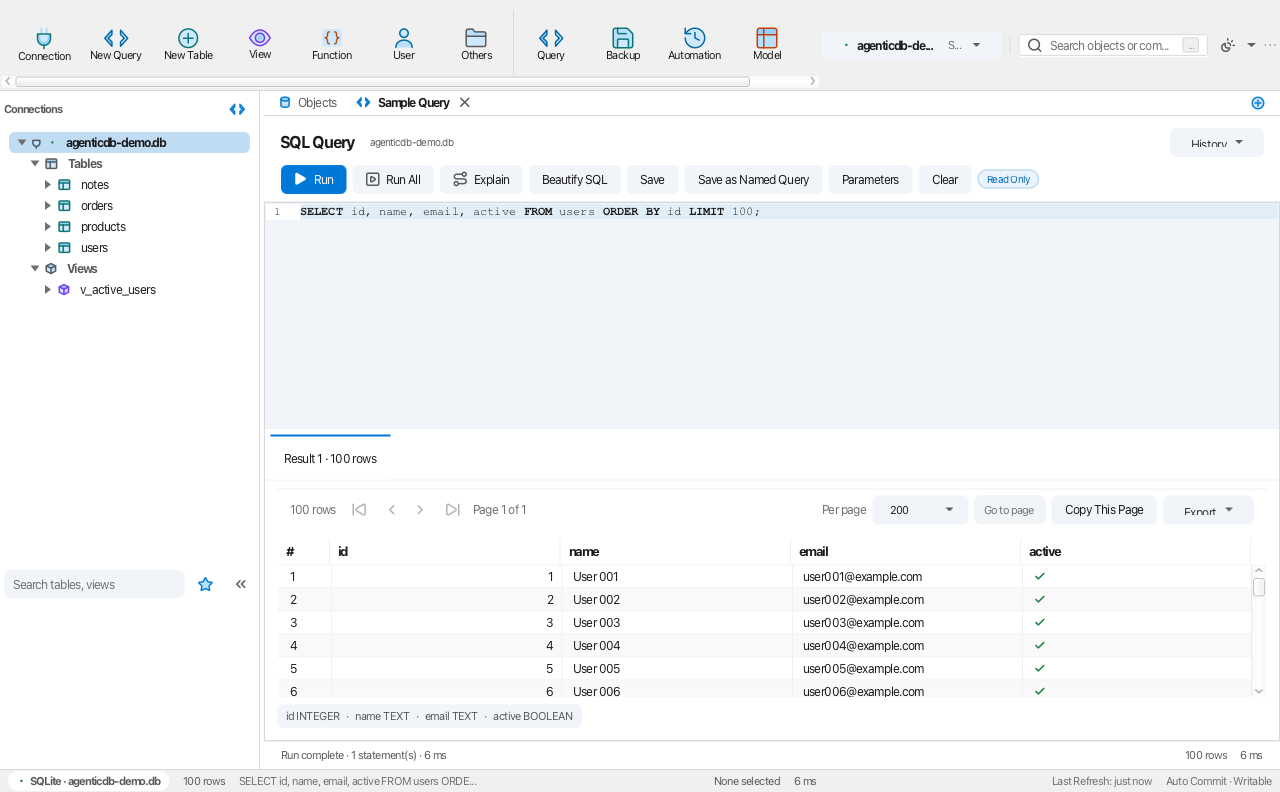
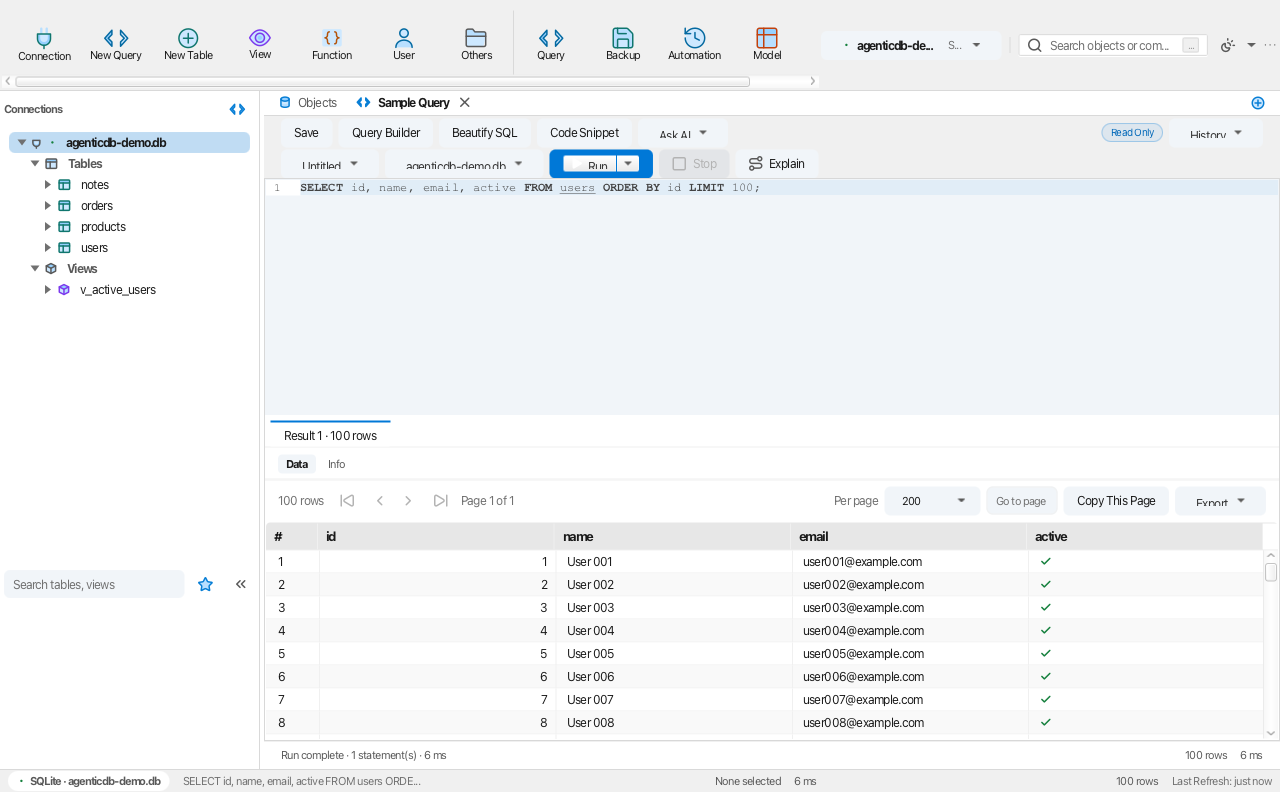
docs: R39 文档与验收帧 —— 基线回量 1199/143、查询页与状态栏规格
- STATUS §1 回量 1199 条 / 143 类 / 0 失败（+8 条 / +2 类：SqlSyntaxColorTest、SavedQueriesPageTest）
- SPEC 重写查询页骨架与 §7.6 状态栏三页型；更正遗留的顶区 114px/Ribbon 64/页签行 26/状态栏 22
  为 R36 实拍值 140/91/25/23，并同步 UI-GUIDE
- FAQ/术语：已保存查询不再是用向导描述的弹窗；事务状态改看数据页工具条
- 重拍 p3-query / p9-saved-queries / p2-transaction；p9 的摆态补刷侧栏 Queries 组

diff --git a/docs/STATUS.md b/docs/STATUS.md
@@ -11,7 +11,7 @@
 |---|---|
 | 命令 | `./scripts/build.sh`（= `./mvnw -B clean verify` + `java tools/TestCount.java`） |
 | 最近一次全量回量 | 2026-10-31 · macOS 15.7 x64 · JDK 25.0.4（IntelliJ JBR） |
-| 结果 | **1191 条 / 141 类 / 0 失败**（另有 53 条环境门控跳过）—— R38 数据网格（N16–N20 N31 + D-1）后回量（`./scripts/build.sh` 全绿；较上一版 **+11 条 / +1 类**：新增 `FilterPanelAuditTest` 3 条（面板开合、显式 Apply 才生效、排序芯片），其余为 N19/N20/D-1 改写的既有类补测 —— 13 具名键项集与 `»` 折叠对账、底栏降级、行内编辑盒与当前列表头、详情浮层压住分页器时的可用宽度） |
+| 结果 | **1199 条 / 143 类 / 0 失败**（另有 53 条环境门控跳过）—— R39 查询编辑器 + 已保存查询 + 状态栏（N21–N25）后回量（`./scripts/build.sh` 全绿；较上一版 **+8 条 / +2 类**：新增 `SqlSyntaxColorTest` 5 条（N22 配色重标定）与 `SavedQueriesPageTest` 4 条（N24 对象页四列 / 设计键 / 删除默认取消 / 刷新），`StatusBarTest` 删掉旧「事务 · 只读」段并补三页型布局 1 条） |
 
 **口径警告（改数字前必读）**：4 个测试类用 `@Nested`，surefire 的 XML 会把外层类写成 `tests="0"`
 （真实用例在内层类条目里）。按 `tests=` 属性统计会少算一百多条 —— 所以计数一律走
@@ -26,7 +26,7 @@
 
 | 能力面 | 状态 | 边界（哪些是真的，哪些不是） |
 |---|---|---|
-| 外壳与布局 | ✅ | 七区（菜单 / 功能区 / 侧栏 / 页签 / 对象工具条 / 内容区 / 状态栏）；侧栏 250px、折叠 48px、可拖 200–360；macOS 用系统菜单栏 |
+| 外壳与布局 | ✅ | 七区（菜单 / 功能区 / 侧栏 / 页签 / 对象工具条 / 内容区 / 状态栏）；侧栏 250px、折叠 48px、可拖 200–360；macOS 用系统菜单栏；状态栏按页型换段（查询 / 数据 / 对象三套），不再摆「自动提交 · 只读」 |
 | 连接与凭据 | ✅ | 六种方言：SQLite / MySQL 5.7–8.x / PostgreSQL（真库验证过）；MariaDB / SQL Server / Oracle（方言 + 单测门禁已落地，**目录查询未在真库验证**，方言源码逐条标注）。连接分组、收藏、复制、URI（含 Oracle EZConnect 与 SQL Server 分号参数串）；口令进系统凭据服务，**不落盘**；`connections.json` 落盘前剔除敏感键；HikariCP 池化（除 SQLite），SQLite 直连 |
 | 连接向导 | ✅ | 6 个类型磁贴 → 7 页属性 → 测试 → 保存。SSL 页的档位与根证书参数**由方言自报**（PG `sslmode` / MySQL `sslMode` / MariaDB `sslMode`+`serverSslCert`，MariaDB 没有 prefer 档）；SQL Server（encrypt + trustServerCertificate 配对）与 Oracle（钱包 / sqlnet.ora）收起档位并写明去哪里填；SSH / HTTP 页如实标注「未实现」，不是空壳 |
 | 对象树 | ✅ | 真实内省（表 / 视图 / 函数·过程；触发器按表归属在结构页，事件本版本不上树）；多连接同树；表节点懒加载展开列，失败可重试 |
@@ -35,10 +35,11 @@
 | 数据页写路径 | ✅ | 行内编辑 + 类型转换 + 按主键定位；NULL / 空串独立操作；批量操作走行多选 + 右键菜单 + 底部行操作条（TSV / INSERT / 克隆 / 置 NULL / 置空串 / 删除）；SQL 预览 → 单事务 → 失败回滚 → 保存后一次反向撤销 |
 | 结构编辑 | ✅ | 加列 / 改列 / 重命名 / 删列 + 两级危险确认；索引、外键、触发器、CHECK 可增删；表注释可读可改（SQLite 无 → 按钮禁用）；改列整表重建时搬运 CHECK |
 | 建表 / 表级生命周期 | ✅ | 建表（弹窗 + 实时 SQL 预览）/ 清空 / 重命名 / 删除，三种方言各走自己的语法。⚠ 建表弹窗里还不能录外键 / 索引 / CHECK；建表后不自动打开该表 |
-| 查询页 | ✅ | RichTextFX 编辑器（高亮 / 行号 / 当前行 / 查找替换）；`⌘R` 当前语句、`⇧⌘R` 全部、`⌘.` 取消；多语句结果页签、服务端分页、执行计划、错误定位、查询历史（50 条，带对象上下文）、代码片段。执行计划按方言能力开放：SQL Server / Oracle 需要两步协议，按钮禁用并说明原因 |
+| 查询页 | ✅ | 工具带双行 62px（保存 / 查询构造器 / 美化 / 代码片段 / 问 AI · 查询名▾ / 库▾ / Run▾ / Stop / Explain）；RichTextFX 编辑器（语法配色、行号、当前行、查找替换）；`⌘R` 当前语句、`⇧⌘R` 全部、`⌘.` 取消；结果区 `Message/Summary/Result N` 三段 + `Data/Info` 切面、服务端分页、执行计划、错误定位、查询历史（50 条，带对象上下文）、代码片段。执行计划按方言能力开放：SQL Server / Oracle 需要两步协议，按钮禁用并说明原因 |
+| 已保存查询 | ✅ | 工作区对象页（名称 / 类型 / 修改时间 / SQL 四列 + `设计` / `新建` / `删除查询`）；侧栏 `Queries` 组双击或 Enter 打开；删除走危险确认（默认按钮是取消）；查询页保存后列表即时刷新 |
 | 导入导出 | ✅ | 流式 CSV / TSV / JSON Lines / SQL / xlsx（POI SXSSF 写 + SAX 读）；字段映射、按目标列类型转换（含中文日期格式）、坏行报告带列名与原文；查询结果三档导出（本页 / 选中 / 全部） |
 | 错误与超时 | ✅ | 错误归类（断连 / 权限 / 不存在 / 超时 / 锁 / 约束 / 语法）；语句超时 30s 并给建议；崩溃日志 `~/.agenticdb/logs/crash-*.log` |
-| 外观 | ✅ | 暗亮双主题 + 跟随系统 + 本地记忆；四档密度；107 个设计令牌唯一真相；图标走语义彩色层（同一套资产换主题自动换色） |
+| 外观 | ✅ | 暗亮双主题 + 跟随系统 + 本地记忆；四档密度；108 个设计令牌唯一真相；图标走语义彩色层（同一套资产换主题自动换色） |
 | 键盘与可访问性 | ✅ | ⌘K 命令面板；六区焦点顺序；页签 / 切面键盘切换；逐页可朗读名称（`AccessibilityAuditTest` 断言） |
 | 界面语言 | ✅ | 英文（默认）· 简体中文；主源码里的硬编码汉字由棘轮压到 8 条（且那 8 条是**输入 token**，不是文案） |
 | 可观测性 | ✅ | `StartupTrace` 分段打点 → `~/.agenticdb/logs/startup.log`；诊断页 |

diff --git a/docs/ROADMAP.md b/docs/ROADMAP.md
@@ -12,13 +12,14 @@
 | 数据库 | SQLite · MySQL 5.7/8.x · PostgreSQL |
 | 形态 | 原生桌面（Java 25 + JavaFX 25），**不内嵌浏览器、不启本地 HTTP 端口** |
 | 平台 | macOS · Windows · Linux（**源码构建**；尚无签名安装包，见 `docs/STATUS.md` §分发） |
-| 数据网格 | 服务端分页、列筛选/条件构造、多列排序、列宽与顺序记忆、行内编辑、区域选择、冻结列 |
+| 数据网格 | 服务端分页、列筛选/条件构造、多列排序、列宽与顺序记忆、行内编辑、区域选择、冻结列；**Filter & Sort 内嵌生成器**（显式 Apply、Sort By 芯片） |
 | 写操作安全 | SQL 预览 → 单事务执行 → 失败回滚 → 保存后反向撤销；危险语句分级 + 两级确认 |
+| 导航 | 连接 → 库 → 分组三级树；MySQL / MariaDB / PostgreSQL / SQL Server 多库可切换（双击库即切），SQLite 单库平铺；页签与状态栏带库名 |
 | 结构编辑 | 加列/改列/重命名/删列、索引、外键、触发器、CHECK、表注释，全部单事务 + 联动刷新 |
-| SQL 编辑器 | 语法高亮、当前语句执行、多语句结果页签、执行计划、错误定位、查询历史、代码片段 |
+| SQL 编辑器 | 语法高亮、当前语句执行、多语句结果页签、执行计划、错误定位、查询历史、代码片段；已保存查询是对象页（4 列 + 设计/新建/删除） |
 | 导入导出 | CSV / TSV / JSON Lines / SQL / xlsx，字段映射、按目标列类型转换、坏行报告 |
 | 凭据 | 存系统凭据库（macOS Keychain / Windows Credential Manager / secret-tool），**不落盘明文** |
-| 主题 | 暗/亮双主题（跟随系统）、四档密度、107 个设计令牌单一真相 |
+| 主题 | 暗/亮双主题（跟随系统）、四档密度、108 个设计令牌单一真相 |
 | 键盘与可访问性 | ⌘K 命令面板、六区焦点顺序、逐页可朗读名称 |
 | 界面语言 | 英文（默认）· 简体中文 |
 
@@ -27,14 +28,13 @@
 | 项 | 状态 |
 |---|---|
 | 彩色图标体系（对象类型 / 状态） | 导航词表（侧栏 / 对象树 / 结构页 / 页签）与功能区 6 条命令已走彩色档；16px 内联工具条与连接磁贴待补 |
-| 外壳与顶区重构 | 计划中 |
-| **更多数据库** | Oracle · SQL Server · MariaDB —— **最高优先级**，见下 |
-| 库级导航树（连接 → 库 → 对象组） | 计划中 |
-| 数据页内联 Filter & Sort 面板 | 计划中 |
+| 弹窗与向导 | 计划中：系统标题栏、连接向导类型页 / 常规页按 Navicat 版式重排 |
+| 表设计器与字号梯度 | 计划中：`Virtual` / `Key Length` / `Binary` 等列属性，字号 7 档收成 11/12/13 三档 |
+| **更多数据库** | Oracle · SQL Server · MariaDB —— 方言 + 单测已落地，真库契约待 Docker 环境 |
 
 ## 接下来（按对用户价值排序，非按实现难度）
 
-1. **Oracle / SQL Server / MariaDB 方言** —— 数据库客户端的第一筛选条件。
+1. **Oracle / SQL Server / MariaDB 真库验证** —— 方言与目录查询已实现并有单测门禁，三种方言的真库契约待补（需要 Docker 环境）。
 2. **SSH 隧道** —— 连接生产库的实际前提（当前连接向导里如实标注未实现）。
 3. **SSL/TLS 完整化** —— 当前写入驱动属性，证书链校验与 SNI 待补。
 4. **数据生成（测试数据填充）** —— 开发者高频需求。

diff --git a/CHANGELOG.md b/CHANGELOG.md
@@ -23,6 +23,20 @@
 
 ### Changed
 
+- **查询页按 Navicat 17 重排，状态栏改成按页型换段**（2026-10-31，R39 N21–N23 N25）：
+  工具带改为**双行 62px**（第一行 保存 / 查询构建器 / 格式化 / 代码片段 / AI 助手▾，
+  右端 风险提示 · 历史▾；第二行 查询名▾ / 连接▾ / `Run▾` / 停止 / 执行计划），
+  「全部执行 / 带参数执行」收进 Run 的菜单，「清空」收进编辑器右键菜单；
+  语法配色重标定（关键字 `#097BF7` 粗 / 字符串 `#FF1744` / 注释 `#929292` / 正文 `#424242` / 表名下划线）；
+  结果区拆成 27px 的 `Message / Summary / Result N` 与 32px 的 `Data / Info`，网格表头单行。
+  状态栏不再是一套固定十段：**查询页** 左「来源 · SQL · 消息」/ 中「选中 · 耗时」/ 右「行范围 · 刷新时间」，
+  **数据页** 左「SQL · 消息」/ 中「选中」/ 右「行范围 · 刷新时间」，
+  **对象页** 左「选中 · 消息」/ 右「来源」；「自动提交 · 只读」两段连同其 CSS、文案与调用点一起删除。
+  门禁：`StatusBarTest.statusBarRegroupsSegmentsByPageType`、`SqlSyntaxColorTest`。
+- **已保存查询从弹窗改成工作区对象页**（2026-10-31，R39 N24）：
+  侧栏 `Queries` 组双击 / Enter 打开页签，页面是四列表（名称 / 类型 / 修改时间 / SQL）+ `设计` / `新建` / `删除查询`；
+  双击行或 Enter = 设计，Delete = 删除（危险确认默认按钮为取消）；查询页保存命名查询后列表即时刷新。
+  空态给「新建」下一步，不再是裸提示。门禁：`SavedQueriesPageTest`。
 - **Filter & Sort 从弹窗改成网格内嵌生成器面板**（2026-10-31，R38 N31）：
   工具条 `Filter & Sort` 按钮按下即开（内容嵌在工具条与网格之间，把网格往下推，不遮挡数据）；
   条件行 = 启用勾选 · 字段 · 操作符 · 值 / `<?>` 占位 · `and` 连接词 · 删除，`[+]` 加条件、`[Ω]` 加组；
